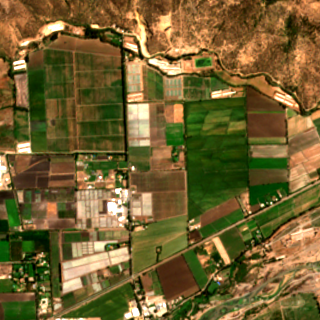
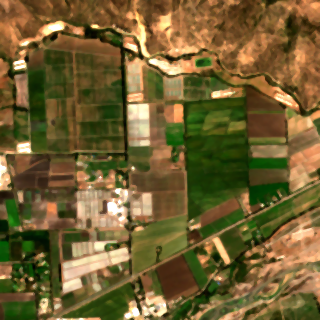
add more enhancements

diff --git a/crop.py b/crop.py
@@ -1,13 +1,52 @@
 from pathlib import Path
 from shutil import copyfile
-from skimage import io, img_as_ubyte, exposure
 import glob
+import math
+
+from medpy.filter import smoothing
+from skimage import io, img_as_ubyte, exposure
 import numpy as np
+import cv2
 
 def create_directory(path):
     path_to_file = Path(path)
     parent_directory_of_file = path_to_file.parent
     parent_directory_of_file.mkdir(parents=True, exist_ok=True)
+
+def adaptive_gamma(r, g=None, b=None):
+    # print(I_in)
+    if g is None and b is None:
+        I_in = r
+    else:
+        rgb_in = np.array([r, g, b]).transpose(1, 2, 0)
+        hsv_in = cv2.cvtColor(rgb_in, cv2.COLOR_RGB2HSV)
+        h, s, I_in =  cv2.split(hsv_in)
+    mu = np.mean(I_in)
+    sigma = np.std(I_in)
+    tau = 3.
+    # D = np.diff(mu + 2. * sigma, mu - 2. * sigma)
+    # rho = 1 if D <= 1 / tau else 2
+    rho = 1 if 4 * sigma <= 1 / tau else 2
+    bright = True if mu >= 0.5 else False
+    dark = not bright
+
+    if rho == 1:
+        gamma = -math.log(sigma, 2)
+    else:
+        gamma = math.exp((1 - (mu + sigma)) / 2)
+
+    k = (I_in ** gamma) + (1 - (I_in ** gamma)) * (mu ** gamma)
+    Heaviside = lambda x: 0 if x <= 0 else 1
+    c = 1 / (1 + Heaviside(0.5 - mu) * (k - 1))
+
+    I_out = c * (I_in ** gamma)
+
+    if g is None and b is None:
+        return I_out
+    else:
+        hsv_out = cv2.merge([h, s, I_out])
+        rgb_out = cv2.cvtColor(hsv_out, cv2.COLOR_HSV2RGB)
+        return rgb_out
 
 datasets_root = 'datasets'
 
@@ -46,4 +85,8 @@ for input_image_dir in glob.glob(input_image_dir_pattern):
             via_image_path = f'{output_dataset_path}/{via_image_path}'
             in_range = tuple(np.percentile(cropped_image, [2, 98]))
             enhanced_image = exposure.rescale_intensity(cropped_image, in_range=in_range, out_range=np.uint8)
-            io.imsave(via_image_path, enhanced_image)
+            enhanced_image = smoothing.anisotropic_diffusion(enhanced_image) / 255.
+            # enhanced_image = adaptive_gamma(enhanced_image)
+            # enhanced_image = img_as_ubyte(enhanced_image)
+            enhanced_image = cv2.medianBlur(enhanced_image, ksize=3)
+            io.imsave(via_image_path, img_as_ubyte(enhanced_image))
